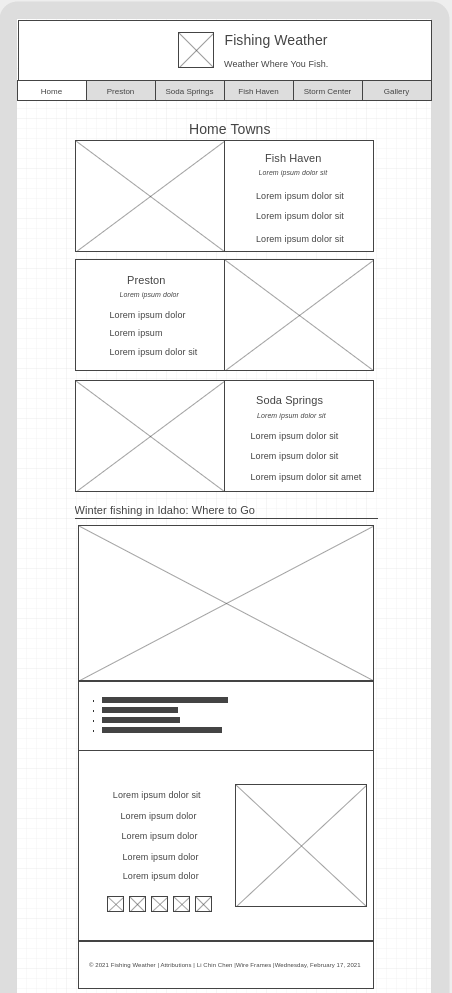
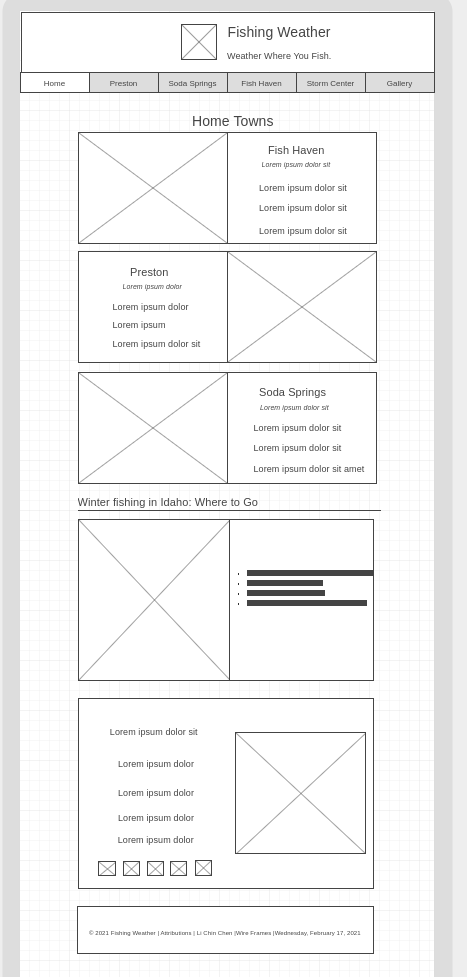
update css

diff --git a/lesson11/index.html b/lesson11/index.html
@@ -38,19 +38,23 @@
     <main>
       <h2>Home Towns</h2>
       <div class="towns"></div>
+      <h3 class="whereToGo2">Winter Fishing In Idaho: Where To Go</h3>
       <section class="tips">
-        <h3>Winter fishing in Idaho: Where to Go</h3>
-        <picture>
+        <div class="whereToGo1">
+          
           <img class="rod" src="images/winterfishing.jpg" alt="fishing rod">
-        </picture>
+        
+        </div>
+      </div>
         <div class="whereToGo">
           <h3><span class="pushpin"> &#128204; </span>Where To Go</h3>
           <ul>
-            <li>The Henrys Fork of the Snake River</li>
-            <li>The South Fork of the Boise River</li>
-            <li>The Snake River below American Falls</li>
-            <li>The Payette River of western Idaho</li>
-            <li><a href="https://visitidaho.org/travel-tips/what-you-need-to-know-about-winter-fishing-in-idaho/">Read More...</a></li>
+            <li><a href="preston.html">Foster Reservoir--Preston</a></li>
+            <li><a href="preston.html">Glendale Reservoir--Preston</a></li>
+            <li><a href="sodasprings.html">Blackfoot Reservoir--Soda Springs</a></li>
+            <li><a href="sodasprings.html">Alexander Reservoir--Soda Springs</a></li>
+            <li><a href="fishhaven.html">Hyrum State Park--Fish Haven</a></li>
+            <li><a href="fishhaven.html">Bear Lake State Park--Fish Haven</a></li>
           </ul>
         </div>
       </section>

diff --git a/lesson11/css/large.css b/lesson11/css/large.css
@@ -5,6 +5,10 @@
       height:60%; 
       margin-top: 20px;
   }
+  header img:hover{
+    width:70px;
+    height:70%;
+}
   img {
       height: auto;
       }
@@ -87,32 +91,51 @@
         
 }
 .tips{
+  display:block;
   position: relative;
+  max-width:960px;
+  margin:auto;
 }
 
 .rod{
   width:100%;
   height:300px;
   box-shadow: 5px 5px 10px;
+  border-radius: 20px 20px 20px 20px;
 }
 .whereToGo{
   position: absolute;
-  top: 130px;
+  top: 15px;
   right: 50px;
   background: radial-gradient(#ffffff, #d6e4f0);
-  padding: 15px;
+  padding: 15px 50px 15px 50px;
   box-shadow: 5px 5px 10px #444f5a;
   opacity: .8;
   border-radius: 10px 10px 10px 10px;
-  font-size:15px;
+  font-size:18px;
   font-weight:bold;
+  text-align: left;
+}
+.whereToGo2{
+  font-size:25px;
+  max-width:920px;
+  text-align:center;
+  padding:15px;
+  border-bottom-style:none;
+  margin:auto;
+  color:#444f5a;
+  text-shadow: 1px 1px 1px #0092ca;
 }
 
 .contact-container{
   padding: 10px 20px 0 20px;
 }
-.whereToGo a{
+.whereToGo li a{
   color:#0092ca;
+}
+.whereToGo a:hover{
+  font-size:20px;
+  color:#444f5a;
 }
 
 .hero-img{

diff --git a/lesson11/css/small.css b/lesson11/css/small.css
@@ -542,8 +542,8 @@ main h2 {
     height: 250px;
     padding: 0;
     margin-top:20px;
-  
   }
+
   
 .towns p {
     text-align: center;
@@ -564,24 +564,23 @@ main h2 {
 
 .footer-bar a{color:#ffffff;}
 
-
-  
-
 .rod{
     width:100%;
-    box-shadow: 5px 5px 10px;
-  }
-section ul{
-    color:#444f5a;
-    padding:15px;
-  }
+}
   
 .whereToGo{
       background: radial-gradient(#ffffff, #0092ca);
       padding:20px;
+      text-align: center;
     }
+.whereToGo ul{
+    list-style-type:none;
+}
 .whereToGo a{
-      color:red;
+      color:#000000;
+}
+.whereToGo a:hover{
+      font-weight:bold;
 }
 
 .pushpin{

diff --git a/lesson11/css/medium.css b/lesson11/css/medium.css
@@ -140,12 +140,26 @@
 .towns section:nth-child(even) p3 {
     grid-column: 1;
   }
+
+
 .tips{
-  padding:30px;
+    display: grid;
+    grid-template-columns: 1fr 1fr;
+    
+}
+.rod{
+    width:100%;
+    height:100%;
+    
 }
 
-.whereToGo a{
-    color:red;
+.whereToGo1{
+    grid-column: 1/2; 
+    
+}
+.whereToGo{
+    grid-column: 2/3; 
+    text-align: left;
 }
 
  /*----------API-----------*/
